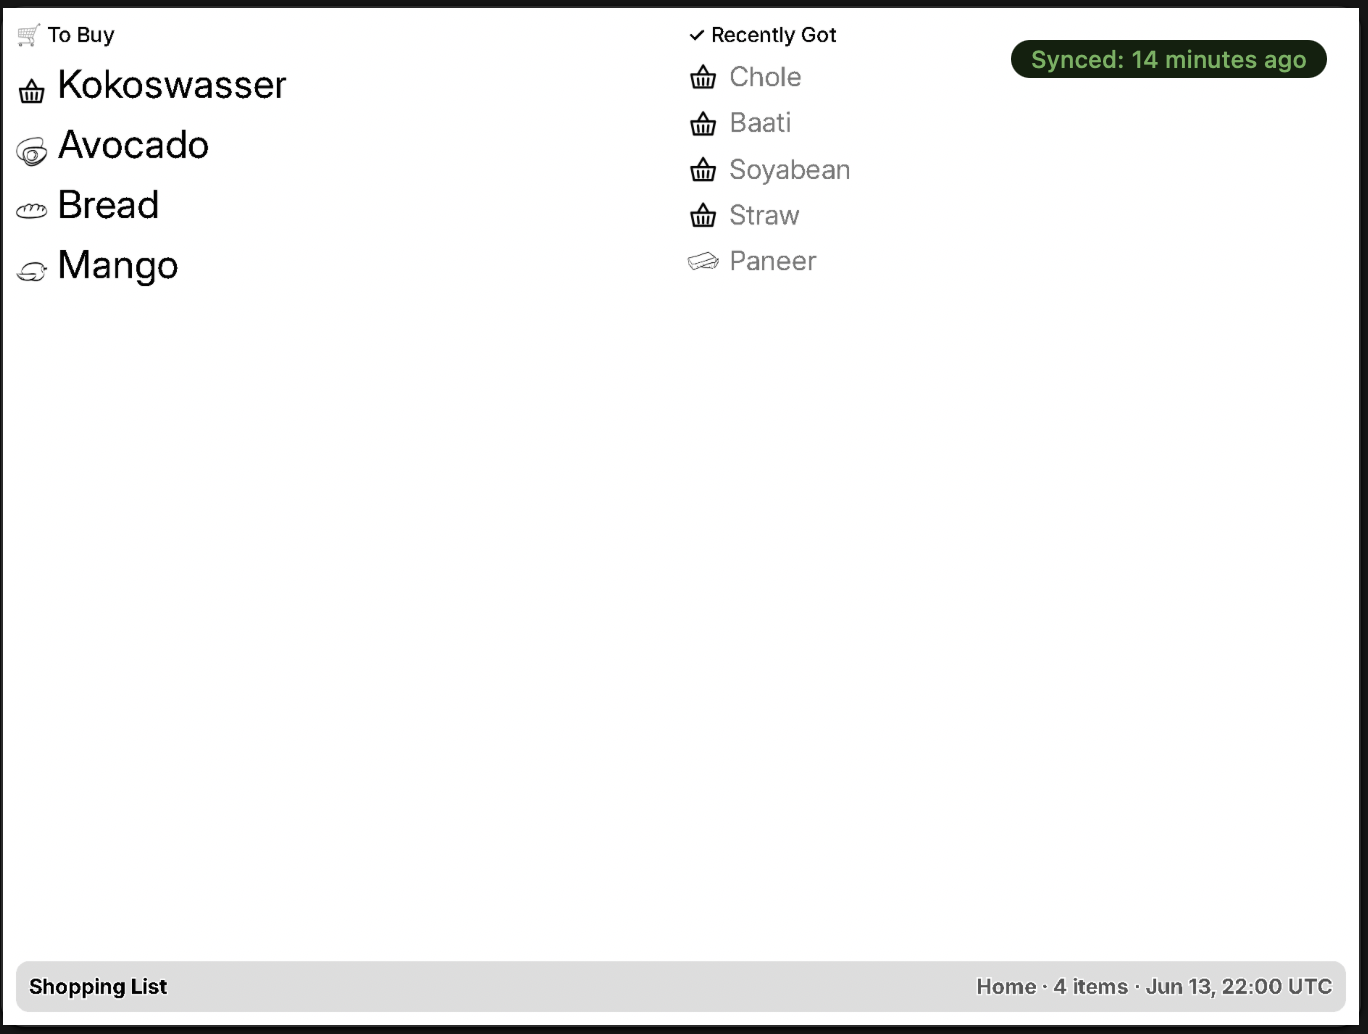
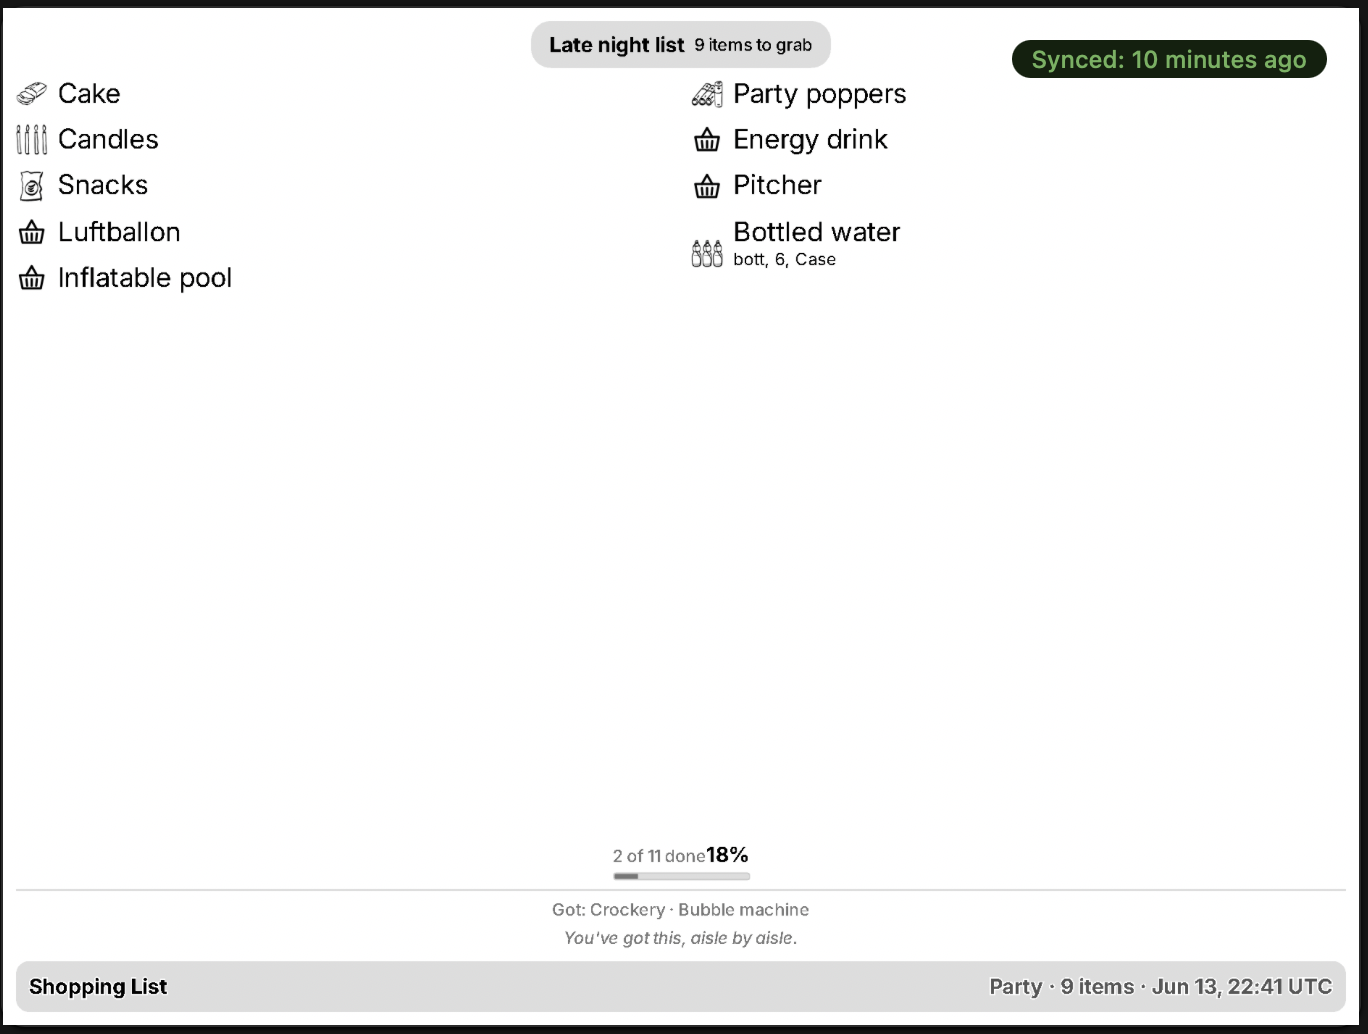
Add screenshots (2-column items + empty state), update README, gitignore cerebrum

diff --git a/README.md b/README.md
@@ -8,7 +8,7 @@ Show your [Bring!](https://www.getbring.com/) shopping list on a [TRMNL](https:/
 
 | With items | Empty list |
 |:----------:|:----------:|
-| ![Full layout with items](screenshots/full-with-items.png) | *Witty rotating phrases when your list is empty* |
+| ![Full layout with items](screenshots/full-with-items.png) | ![Empty state](screenshots/empty-state.png) |
 
 ## How it works
 